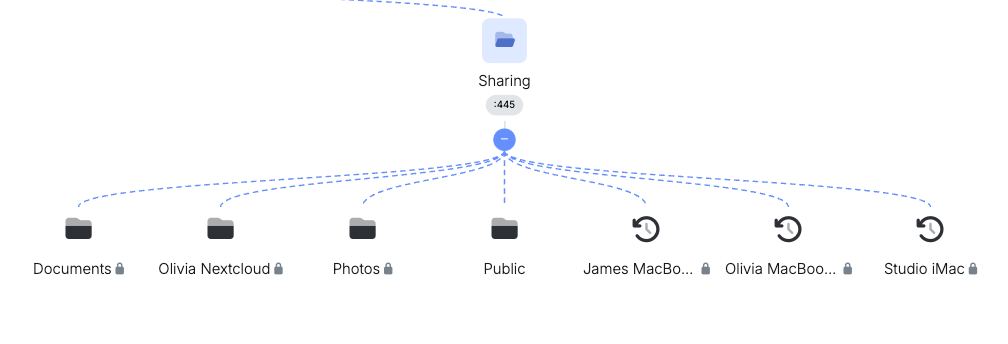
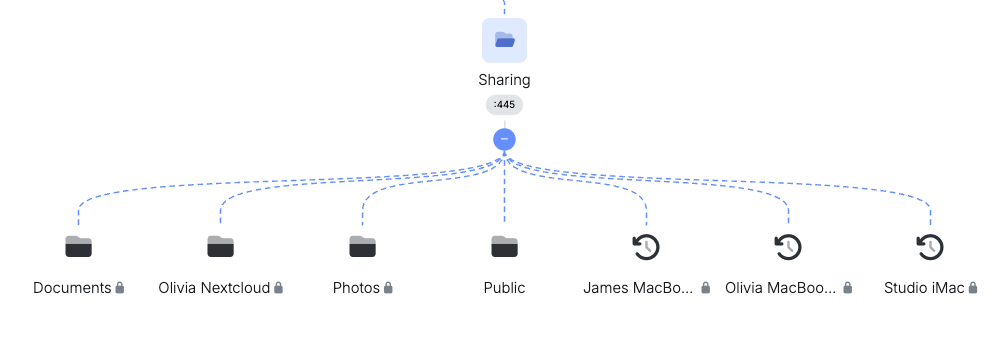
docs(dashboard): cpu, ram and network history with the timeframe bar, topology traffic only on folders in use, refreshed screenshots

diff --git a/src/content/docs/management/dashboard.md b/src/content/docs/management/dashboard.md
@@ -15,13 +15,24 @@ The **Status** column shows the node's resources as they change:
 
 ![The node's status](../../../assets/management/dashboard-status.png)
 
-- **CPU:** the processor's load and temperature, and the fan speed when the node has a fan.
-- **RAM:** how much memory is in use.
-- **Network:** the traffic on the node's network connection over the last minute, received (**RX**) and sent (**TX**), with the connection's name and speed.
+- **CPU:** how busy the processor is over time, with its temperature, and the fan speed when the node has a fan.
+- **RAM:** how much memory is in use over time, out of the total.
+- **Network:** the traffic on the node's network connection over time, received (**RX**) and sent (**TX**), with the connection's name and speed.
 - **VirgoOS:** how full the system drive is.
 - **Data:** the [storage pool](/management/system/storage/)'s health and how full it is, with the temperature of each drive. A drive's badge turns yellow or red when it gets too warm, and orange when its own health check reports a problem; hover over it to see what it reports. While a data integrity check runs, its progress shows here too.
 - **UPS:** whether the node runs on the grid or on battery, and how charged the battery is. See [UPS](/management/ups/) for what happens during a power cut.
 - **Uptime:** how long the node has been running since it last started.
+
+### Looking back
+
+The node records CPU, RAM and network every second and keeps the last hour, even while nobody has the page open. The bar at the top of the column picks which part of that hour the three charts show. It starts at the last 10 minutes and follows along as time passes.
+
+- Drag the highlighted box back along the bar to see an earlier moment. The charts stay on that moment until you drag the box back to the right end, where they follow along again.
+- Drag either end of the box to show more or less time, up to the whole hour.
+- Select anywhere else on the bar to move the box there.
+- Double-click the bar to go back to the last 10 minutes.
+
+Hover over any of the charts to see the time and every reading at that moment. Each point on a chart is the highest reading over a few seconds, so short spikes stay visible. Seconds the node did not record, such as while it restarted, show as 0.
 
 ## Nodes
 

diff --git a/src/content/docs/management/system/topology.md b/src/content/docs/management/system/topology.md
@@ -62,7 +62,7 @@ The node, each app, each connected computer, **Sharing** and each folder and tim
 
 ![The Topology page with traffic shown](../../../../assets/management/topology-traffic.png)
 
-A computer's traffic flows through the node and **Sharing** to the folders and time machines it has open. Unfold **Sharing** to see which ones.
+A computer's traffic flows through the node and **Sharing** to the folders and time machines it is reading from or writing to. Ones it has open but is not using stay still. Unfold **Sharing** to see which ones.
 
 ![Traffic to the folders and time machines](../../../../assets/management/topology-sharing-traffic.png)
 
